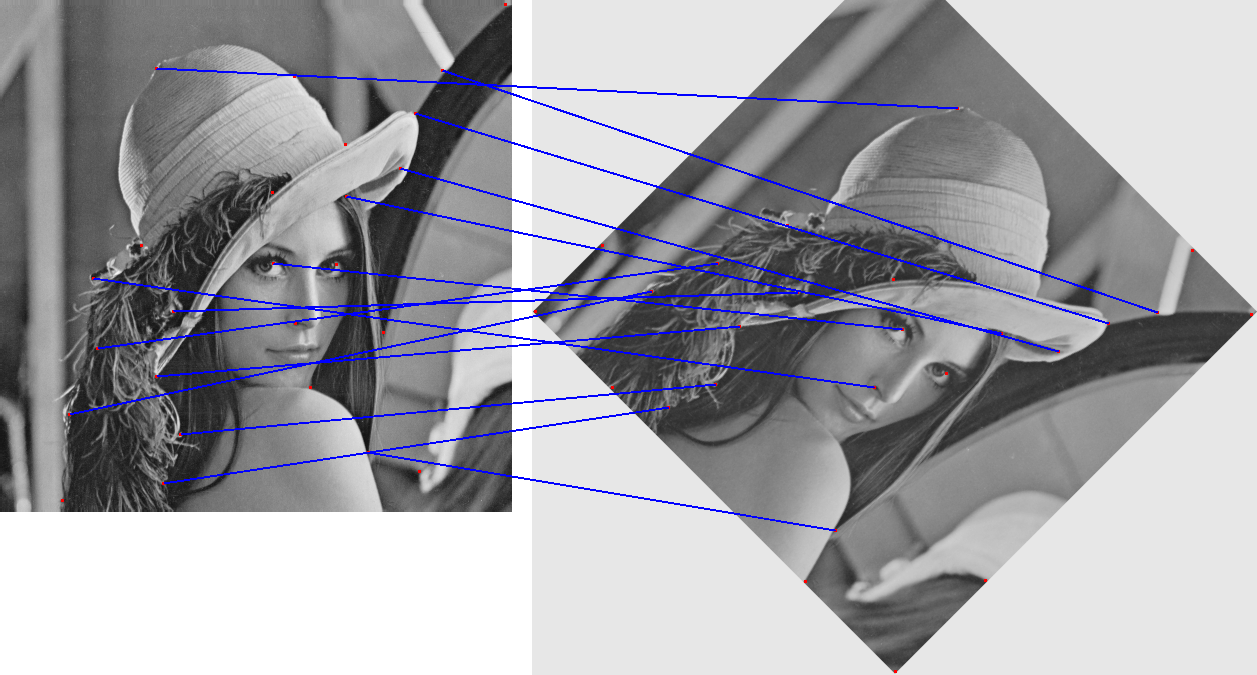
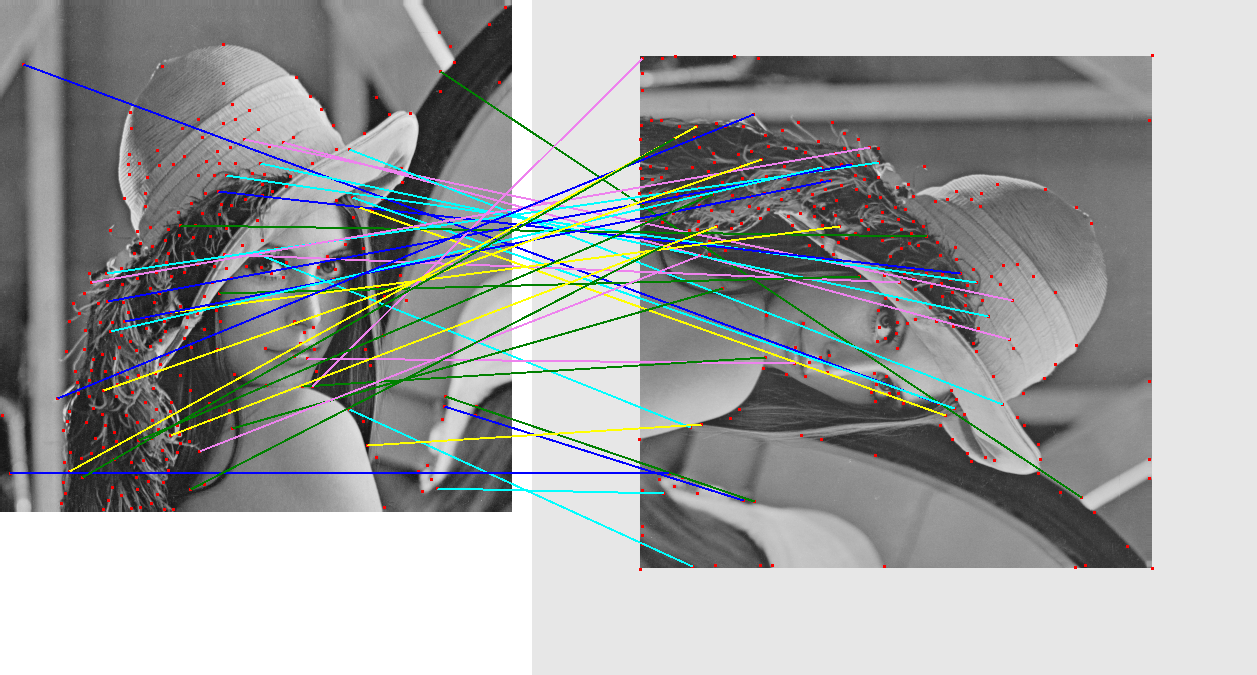
Начнём 6

diff --git a/ITOI/Form1.cs b/ITOI/Form1.cs
@@ -633,12 +633,12 @@ namespace ITOI
                             RotateBMP.SetPixel(x, y, GrayImg.Bitmap.GetPixel(x - oo, y - o));
                         }
                     }
-                    RotateBMP = F.RotateImage(RotateBMP, 45.0F);
+                    RotateBMP = F.RotateImage(RotateBMP, 90.0F);
                     Img TempImg = new Img(RotateBMP);
-
+                    
                     byte[,] SdvigMtx = F.Sdvig(TempImg.GrayMatrix, TempImg.Width, TempImg.Height, out int nWidth, out int nHeight, 0, -50);
                     TempImg = new Img(SdvigMtx, nWidth, nHeight);
-
+                    
                     byte[,] ContrastMtx = F.Contrast(TempImg.GrayMatrix, TempImg.Width, TempImg.Height, -10);
                     Img BegImg2 = new Img(ContrastMtx, TempImg.Width, TempImg.Height);
                     /*--------------------------*/
@@ -684,13 +684,36 @@ namespace ITOI
                         }
                     }
 
+                    Random rand = new Random();
                     Graphics g = Graphics.FromImage(SootvBmp);
-                    Pen pen = new Pen(Brushes.Blue, 2);
+                    Pen pen;
                     Point p1, p2;
                     for (int i = 0; i < Harris1.NewPoints; i++)
                     {
                         if (S[i] != -1)
                         {
+                            int ra = rand.Next(0, 101);
+                            if (ra >= 0 && ra < 20)
+                            {
+                                pen = new Pen(Brushes.Blue, 2);
+                            }
+                            else if (ra >= 20 && ra < 40)
+                            {
+                                pen = new Pen(Brushes.Green, 2);
+                            }
+                            else if (ra >= 40 && ra < 60)
+                            {
+                                pen = new Pen(Brushes.Aqua, 2);
+                            }
+                            else if (ra >= 60 && ra < 80)
+                            {
+                                pen = new Pen(Brushes.Yellow, 2);
+                            }
+                            else
+                            {
+                                pen = new Pen(Brushes.Violet, 2);
+                            }
+
                             p1 = new Point(Harris1.IntPointsCoord[i, 1], Harris1.IntPointsCoord[i, 0]);
                             p2 = new Point(Harris2.IntPointsCoord[S[i], 1] + (Harris1.ImageWithANMS.Width + rst), Harris2.IntPointsCoord[S[i], 0]);
                             g.DrawLine(pen, p1, p2);

diff --git a/ITOI/Img.cs b/ITOI/Img.cs
@@ -15,6 +15,7 @@ namespace ITOI
         public int Width;
         public Bitmap Bitmap;
         public byte[,] GrayMatrix;
+        public double[,] GrayMatrixDouble;
 
         public Img() { }
 
@@ -34,6 +35,7 @@ namespace ITOI
                     Bitmap.SetPixel(x, y, color);
                 }
             }
+            GrayMatrixDouble = NormalizeMatrix(GrayMatrix, Width, Height);
         }
 
         public Img(double[,] matrix, int width, int height)
@@ -51,6 +53,7 @@ namespace ITOI
                     Bitmap.SetPixel(x, y, color);
                 }
             }
+            GrayMatrixDouble = NormalizeMatrix(GrayMatrix, Width, Height);
         }
 
         public Img(string path)
@@ -68,6 +71,7 @@ namespace ITOI
                     GrayMatrix[y, x] = Convert.ToByte(Math.Round(0.213 * color.R + 0.715 * color.G + 0.072 * color.B));
                 }
             }
+            GrayMatrixDouble = NormalizeMatrix(GrayMatrix, Width, Height);
         }
 
         public Img(Bitmap bitmap)
@@ -86,6 +90,7 @@ namespace ITOI
                     GrayMatrix[y, x] = Convert.ToByte(Math.Round(0.213 * color.R + 0.715 * color.G + 0.072 * color.B));
                 }
             }
+            GrayMatrixDouble = NormalizeMatrix(GrayMatrix, Width, Height);
         }
 
         public void Draw(PictureBox pictureBox)
@@ -259,6 +264,34 @@ namespace ITOI
             }
 
             return ResultByte;
+        }
+
+        // Нормализовать матрицу
+        public double[,] NormalizeMatrix(byte[,] Matrix, int width, int height)
+        {
+            double[,] Result = new double[height, width];
+
+            double vMax = 255;
+            double vMin = 0;
+            double newMax = 1;
+            double newMin = 0;
+            for (int y = 0; y < height; y++)
+            {
+                for (int x = 0; x < width; x++)
+                {
+                    Result[y, x] = Matrix[y, x];
+                }
+            }
+
+            for (int y = 0; y < height; y++)
+            {
+                for (int x = 0; x < width; x++)
+                {
+                    Result[y, x] = (Result[y, x] - vMin) * (newMax - newMin) / (vMax - vMin) + newMin;
+                }
+            }
+
+            return Result;
         }
     }
 }

diff --git a/ITOI/Form1.Designer.cs b/ITOI/Form1.Designer.cs
@@ -731,11 +731,11 @@
             // label22
             // 
             this.label22.AutoSize = true;
-            this.label22.Location = new System.Drawing.Point(5, 26);
+            this.label22.Location = new System.Drawing.Point(39, 26);
             this.label22.Name = "label22";
-            this.label22.Size = new System.Drawing.Size(75, 13);
+            this.label22.Size = new System.Drawing.Size(41, 13);
             this.label22.TabIndex = 8;
-            this.label22.Text = "Доля порога:";
+            this.label22.Text = "Порог:";
             // 
             // textBox3
             // 
@@ -1302,11 +1302,11 @@
             // label23
             // 
             this.label23.AutoSize = true;
-            this.label23.Location = new System.Drawing.Point(1, 26);
+            this.label23.Location = new System.Drawing.Point(35, 26);
             this.label23.Name = "label23";
-            this.label23.Size = new System.Drawing.Size(75, 13);
+            this.label23.Size = new System.Drawing.Size(41, 13);
             this.label23.TabIndex = 12;
-            this.label23.Text = "Доля порога:";
+            this.label23.Text = "Порог:";
             // 
             // textBox6
             // 
@@ -2173,7 +2173,7 @@
             this.ClientSize = new System.Drawing.Size(1284, 731);
             this.Controls.Add(this.tabControl2);
             this.MaximumSize = new System.Drawing.Size(1300, 770);
-            this.MinimumSize = new System.Drawing.Size(1300, 770);
+            this.MinimumSize = new System.Drawing.Size(1300, 726);
             this.Name = "Form1";
             this.Text = "Обработка изображений";
             this.tabControl2.ResumeLayout(false);

diff --git a/ITOI/Harris.cs b/ITOI/Harris.cs
@@ -38,7 +38,7 @@ namespace ITOI
             R = r;
 
             GaussMatrix = new GaussCore(windowradius, 1);
-            MTX = F.Svertka(Image.GrayMatrix, Image.Width, Image.Height, GaussMatrix.Matrix, GaussMatrix.Radius, 1);
+            MTX = F.Svertka(Image.GrayMatrixDouble, Image.Width, Image.Height, GaussMatrix.Matrix, GaussMatrix.Radius, 1);
 
             Derivative();
             Minl();
@@ -156,7 +156,7 @@ namespace ITOI
         private void IntPoints1()
         {
             InterestingPoints = new bool[Image.Height, Image.Width];
-            double T = (MAXmin - MINmin) * R;
+            double T = R;
 
             for (int y = 0; y < Image.Height; y++)
             {
@@ -173,9 +173,9 @@ namespace ITOI
                 }
             }
             
-            for (int y = 0; y < Image.Height - 0; y++)
+            for (int y = 0; y < Image.Height; y++)
             {
-                for (int x = 0; x < Image.Width - 0; x++)
+                for (int x = 0; x < Image.Width; x++)
                 {
                     if (InterestingPoints[y, x])
                     {
@@ -190,7 +190,7 @@ namespace ITOI
                                     {
                                         continue;
                                     }
-                                    else if (MinL[y + hWinY, x + hWinX] <= MinL[y,x])
+                                    else if (MinL[y + hWinY, x + hWinX] >= MinL[y,x])
                                     {
                                         InterestingPoints[y + hWinY, x + hWinX] = false;
                                     }

diff --git a/ITOI/Moravek.cs b/ITOI/Moravek.cs
@@ -32,7 +32,7 @@ namespace ITOI
             Image = image;
 
             GaussCore GaussMatrix = new GaussCore(1);
-            Mtx = F.Svertka(Image.GrayMatrix, Image.Width, Image.Height, GaussMatrix.Matrix, GaussMatrix.Radius, 1);
+            Mtx = F.Svertka(Image.GrayMatrixDouble, Image.Width, Image.Height, GaussMatrix.Matrix, GaussMatrix.Radius, 1);
             WindowRadius = windowradius;
             R = r;
 
@@ -109,7 +109,7 @@ namespace ITOI
         private void IntPoints1()
         {
             InterestingPoints = new bool[Image.Height, Image.Width];
-            double T = (MAXmin - MINmin) * R;
+            double T = R;
 
             for (int y = 0; y < Image.Height; y++)
             {
